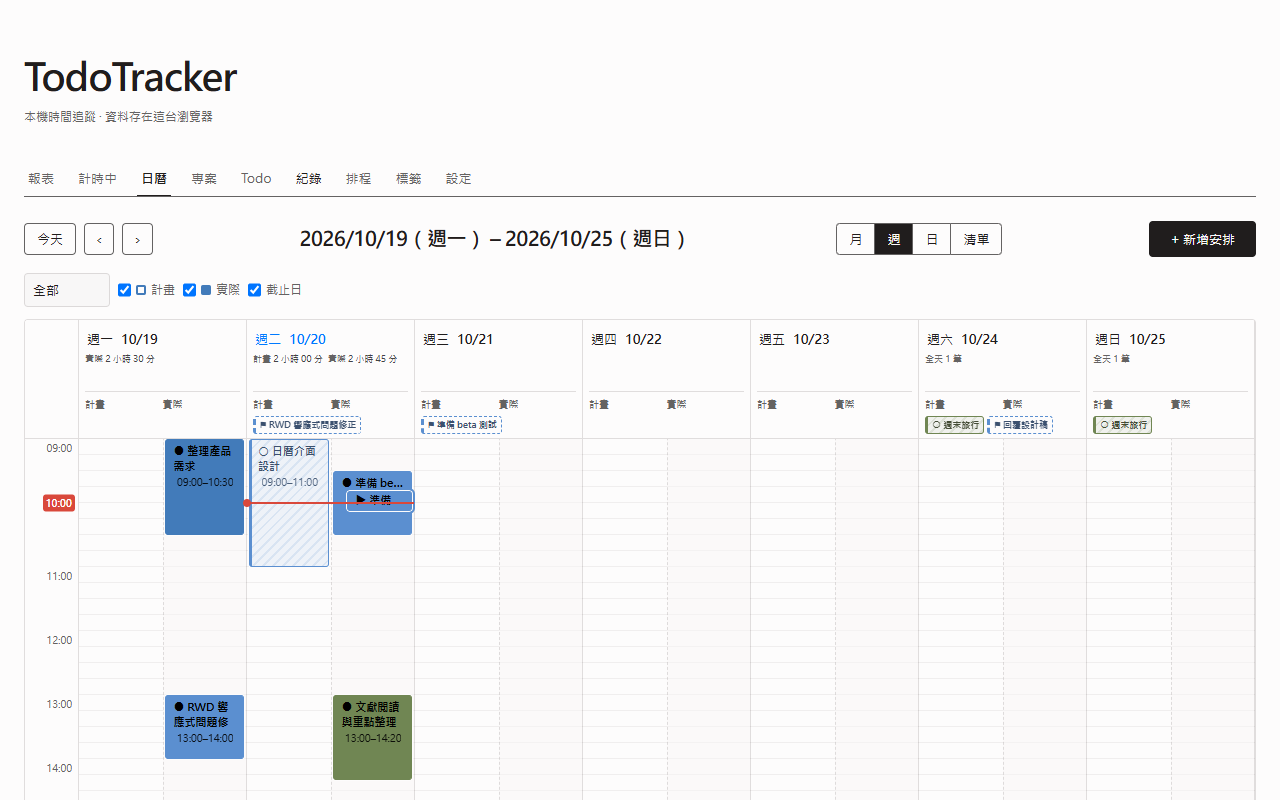
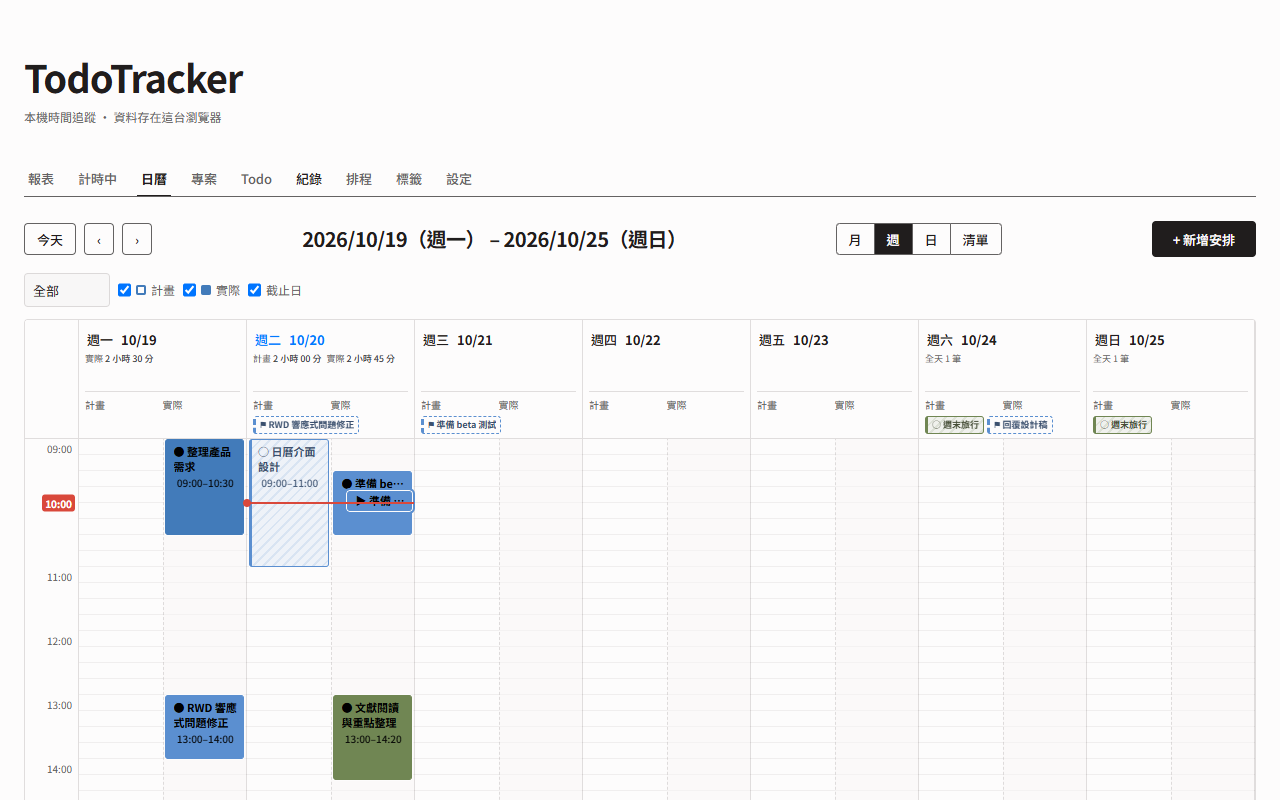
feat: use Noto Sans TC and real store screenshots
- Avoid system-ui, which falls back to Microsoft JhengHei on Windows
- Use Japanese fonts for the Japanese locale
- Replace store concept images with screenshots of the real UI

diff --git a/extension/src/styles/tokens.css b/extension/src/styles/tokens.css
@@ -35,8 +35,9 @@
   --on-dark: #fdfcfc;
 
   /* Type */
-  --font: system-ui, -apple-system, "Segoe UI", "PingFang TC", "Microsoft JhengHei",
-          "Noto Sans TC", "Noto Sans CJK TC", sans-serif;
+  /* 不用 system-ui：Windows 上它的中文會落到細而有鋸齒的微軟正黑體 */
+  --font: "Noto Sans TC", "Noto Sans CJK TC", "Source Han Sans TC", "PingFang TC",
+          "Microsoft JhengHei UI", "Microsoft JhengHei", system-ui, sans-serif;
   /* 等寬字只留給計時器、KPI 數字與 [+] 這類標記 */
   --font-mono: "Berkeley Mono", ui-monospace, SFMono-Regular, "SF Mono", Menlo,
           Consolas, "Liberation Mono", "Noto Sans Mono CJK TC", monospace;
@@ -51,6 +52,11 @@
 }
 
 :root { color-scheme: light dark; }
+
+/* 日文介面要用日文字形，否則漢字會變成繁中寫法 */
+:root:lang(ja) {
+  --font: "Noto Sans JP", "Noto Sans CJK JP", "Hiragino Sans", "Yu Gothic UI", "Meiryo UI", system-ui, sans-serif;
+}
 
 /* 跟著系統切換；只換 token，元件不用各寫一份 */
 @media (prefers-color-scheme: dark) {

diff --git a/DESIGN.md b/DESIGN.md
@@ -40,7 +40,7 @@
 
 **100% 等寬字。沒有 sans-serif、沒有斜體。**
 
-> Extension 例外（2026-11）：等寬字下中文字距過鬆，`extension/src/styles/tokens.css` 的內文改用系統無襯線字，`--font-mono` 只留給計時器、KPI 數字與 `[+]` 標記。Web 仍是全等寬。
+> Extension 例外（2026-11）：等寬字下中文字距過鬆，`extension/src/styles/tokens.css` 的內文改用 Noto Sans TC（缺字型時退回 PingFang、微軟正黑體；日文介面用日文字型），`--font-mono` 只留給計時器、KPI 數字與 `[+]` 標記。Web 仍是全等寬。
 
 ```css
 --font: "Berkeley Mono", ui-monospace, SFMono-Regular, "SF Mono",
